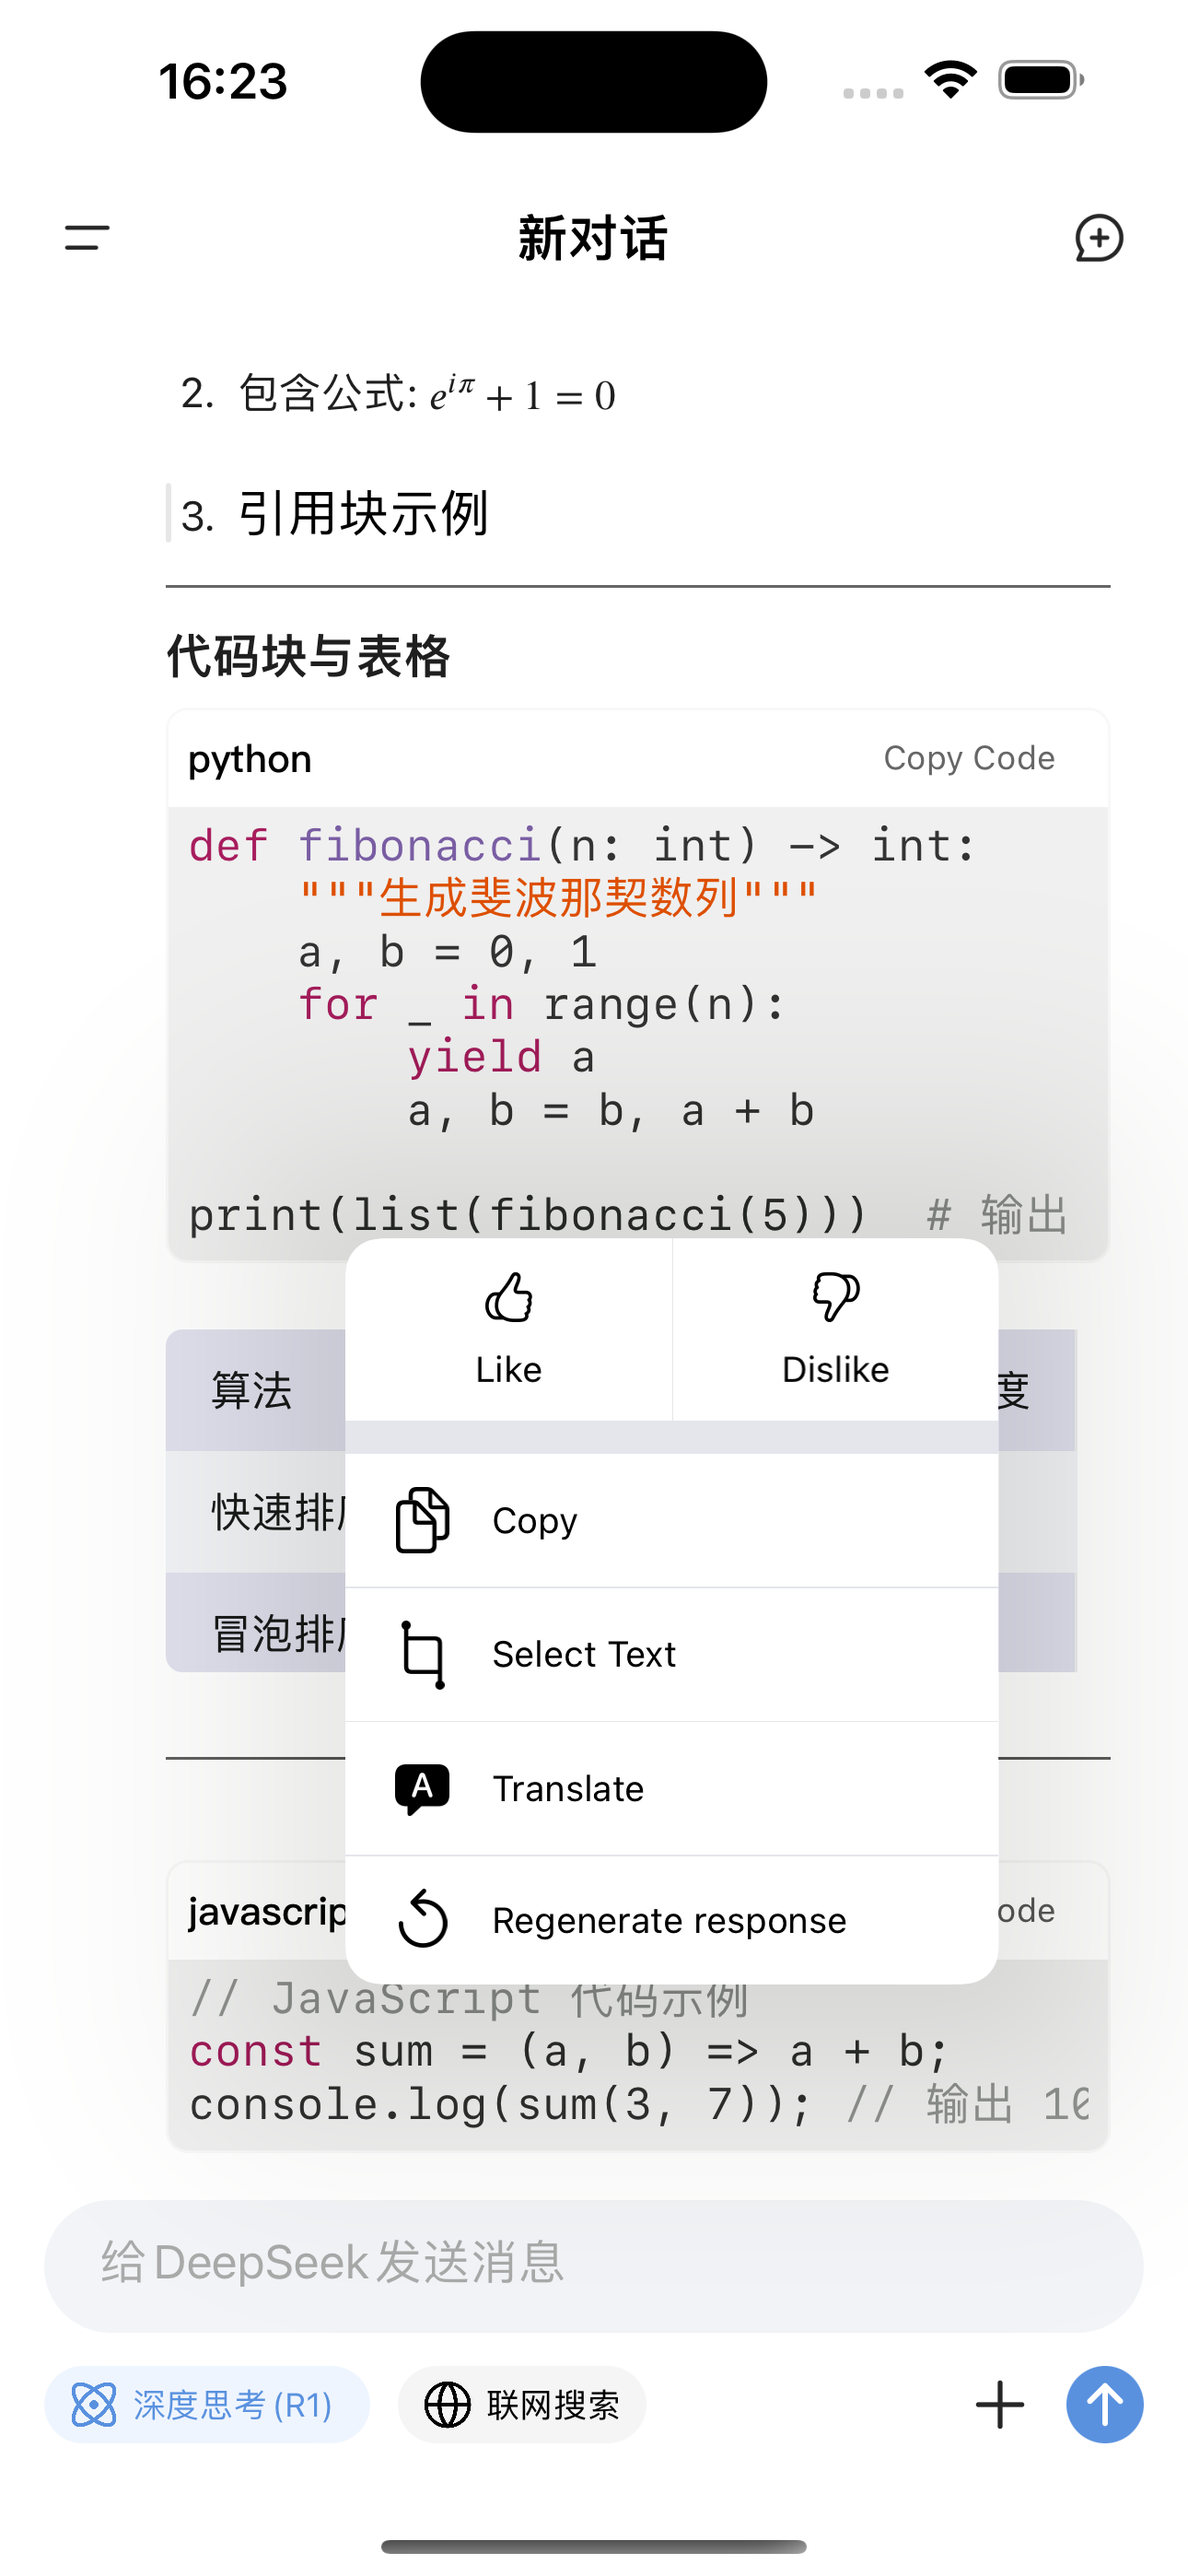
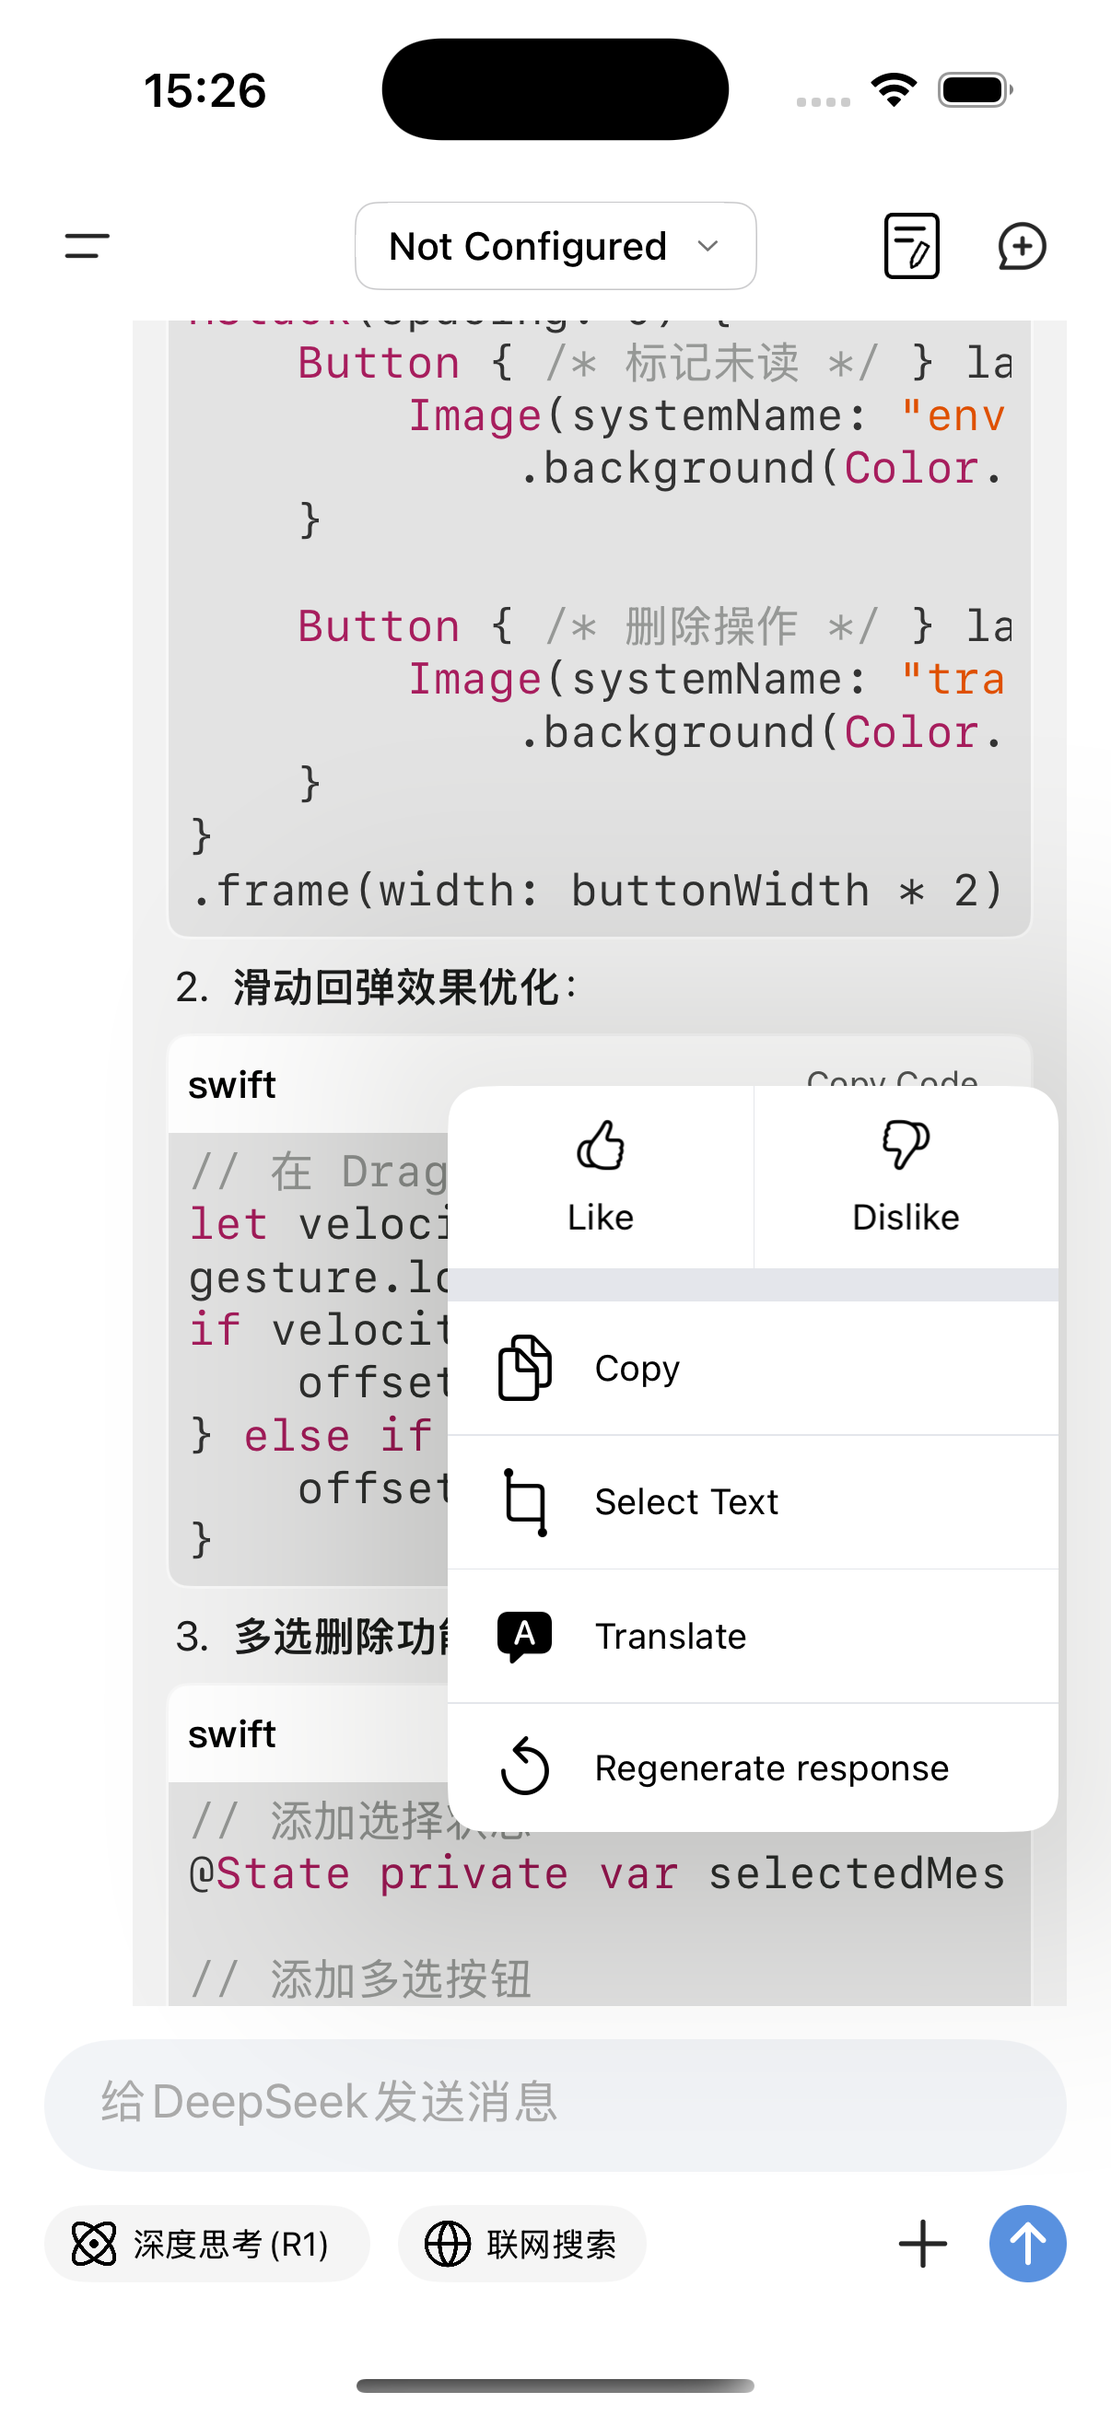
update: readme & screen shot

diff --git a/README.md b/README.md
@@ -37,6 +37,8 @@ Here are some screenshots of the application:
 
 <p align="center"> <img src="Screenshot/screen-1.png" alt="Screen 1" width="200"/> <img src="Screenshot/screen-2.png" alt="Screen 2" width="200"/> <img src="Screenshot/screen-3.png" alt="Screen 3" width="200"/> </p>
 
+<p align="center"> <img src="Screenshot/screen-4.png" alt="Screen 1" width="200"/> <img src="Screenshot/screen-5.png" alt="Screen 2" width="200"/> <img src="Screenshot/screen-6.png" alt="Screen 3" width="200"/> <img src="Screenshot/screen-7.png" alt="Screen 3" width="200"/> </p>
+
 ## Requirements
 
 - iOS 15.0+
